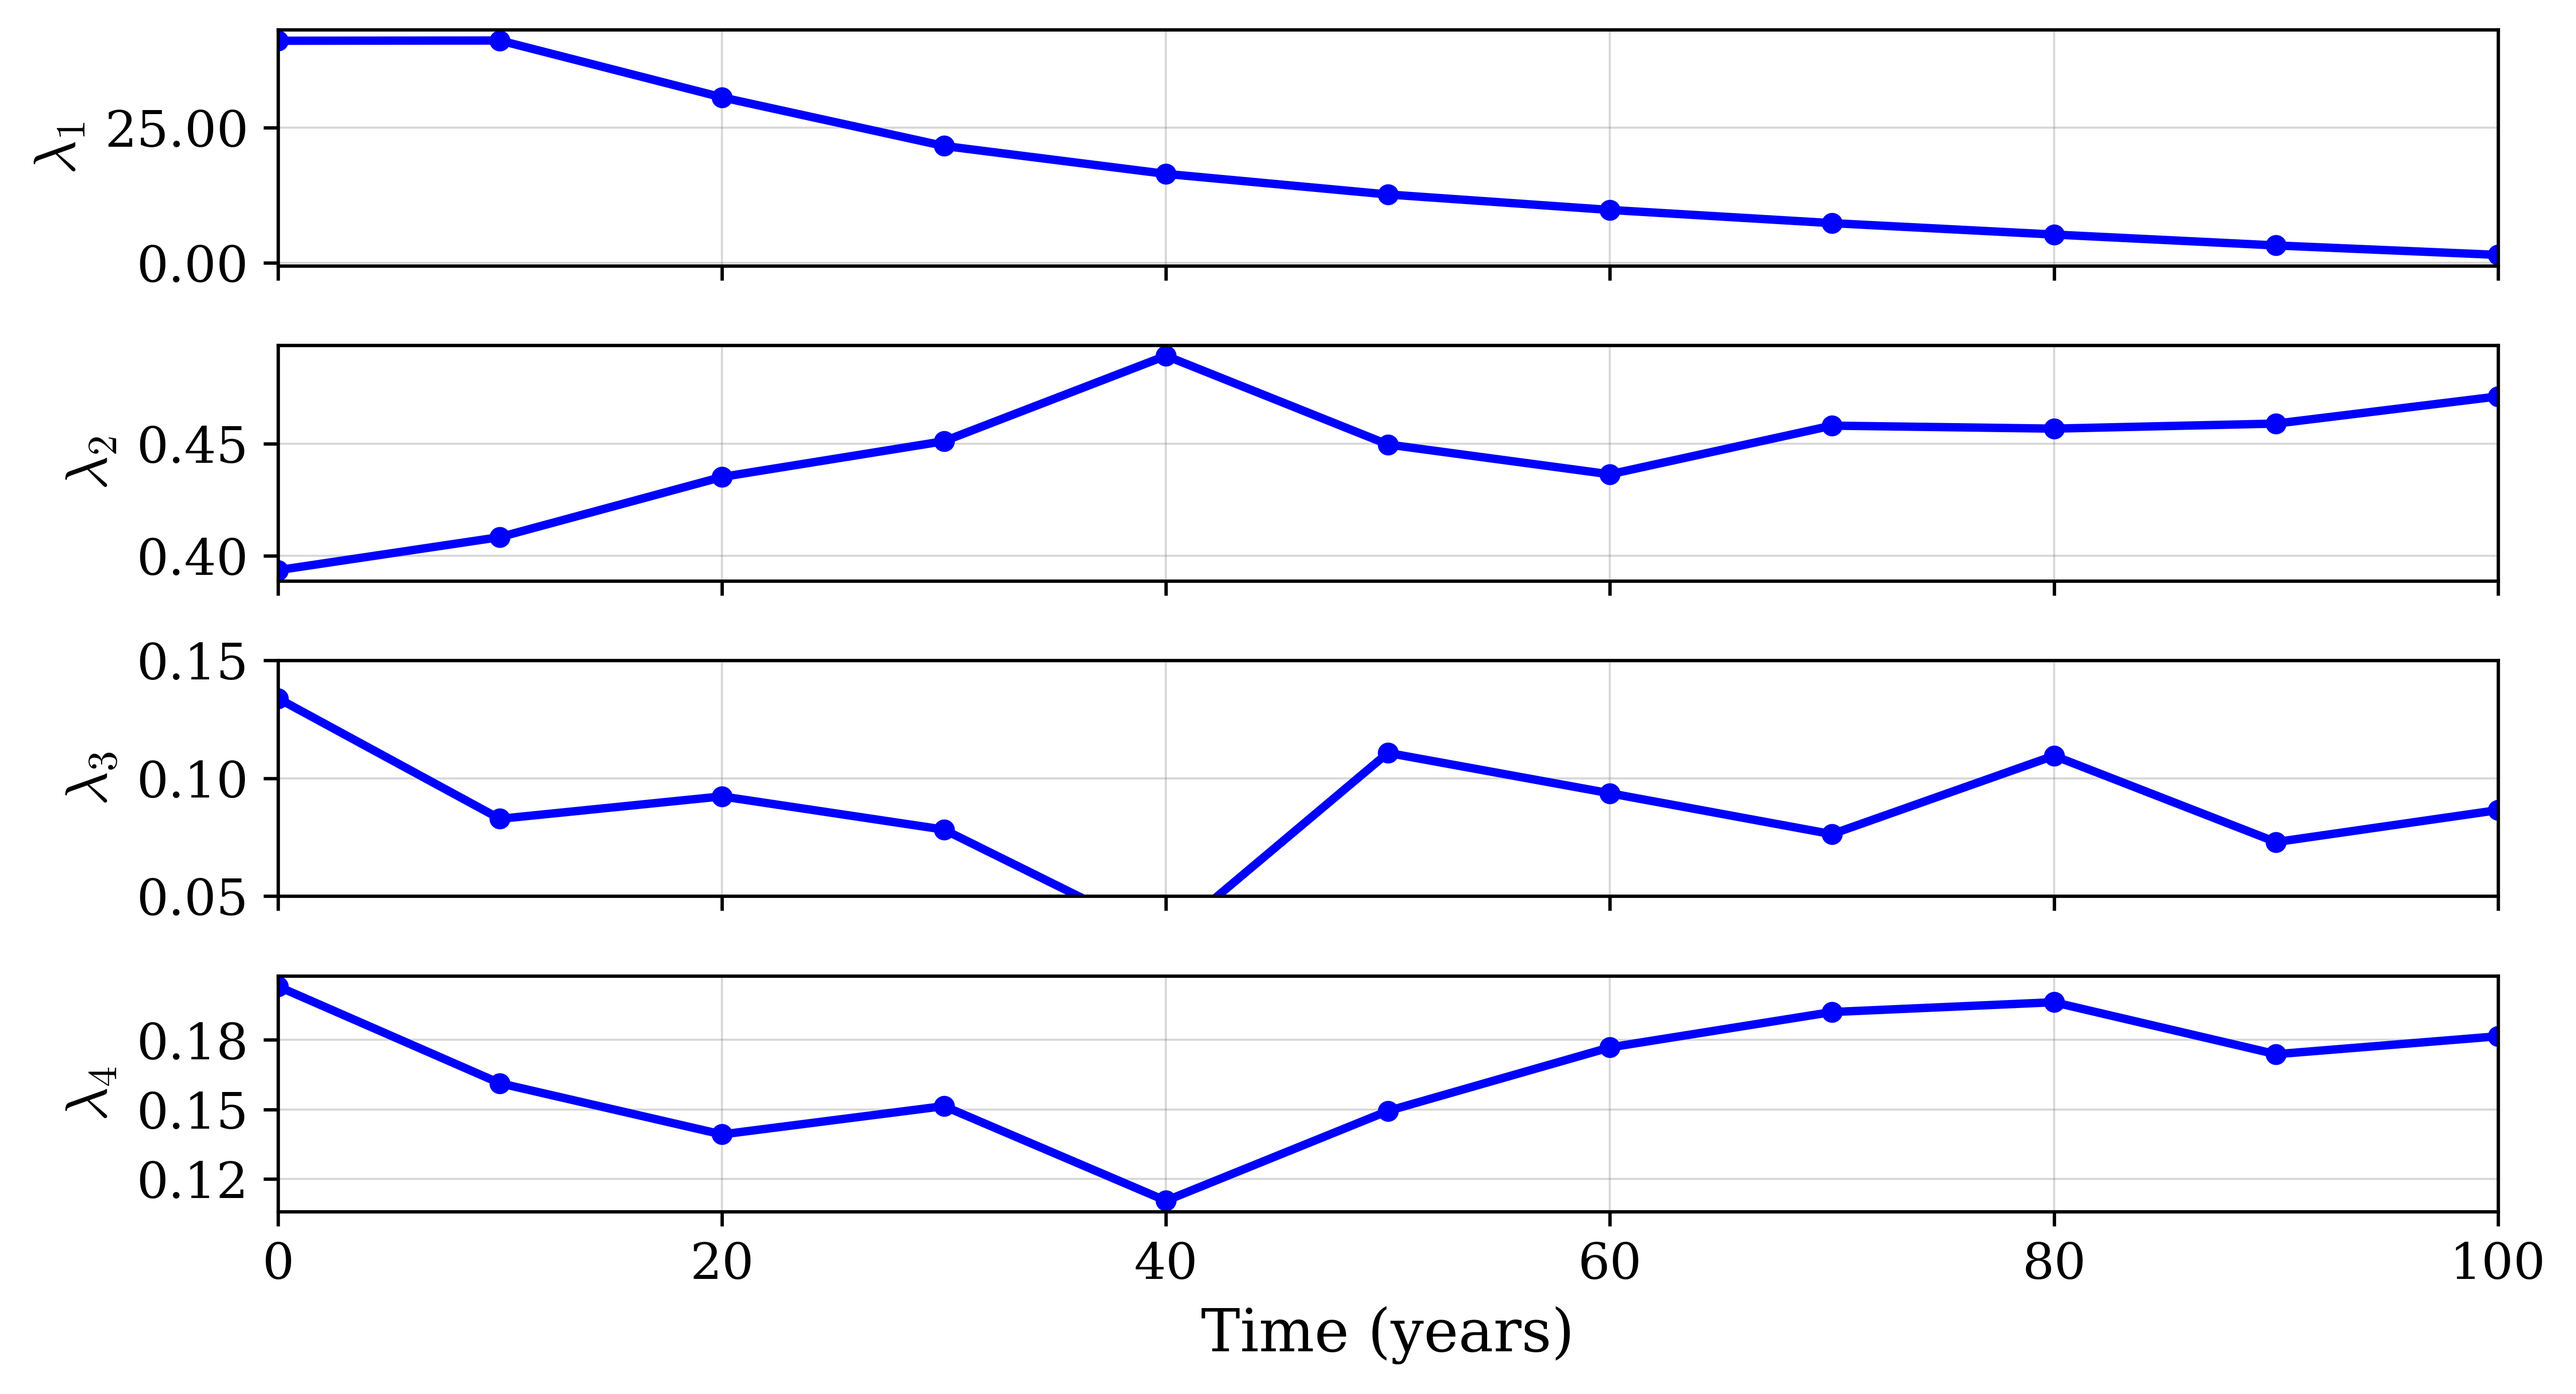
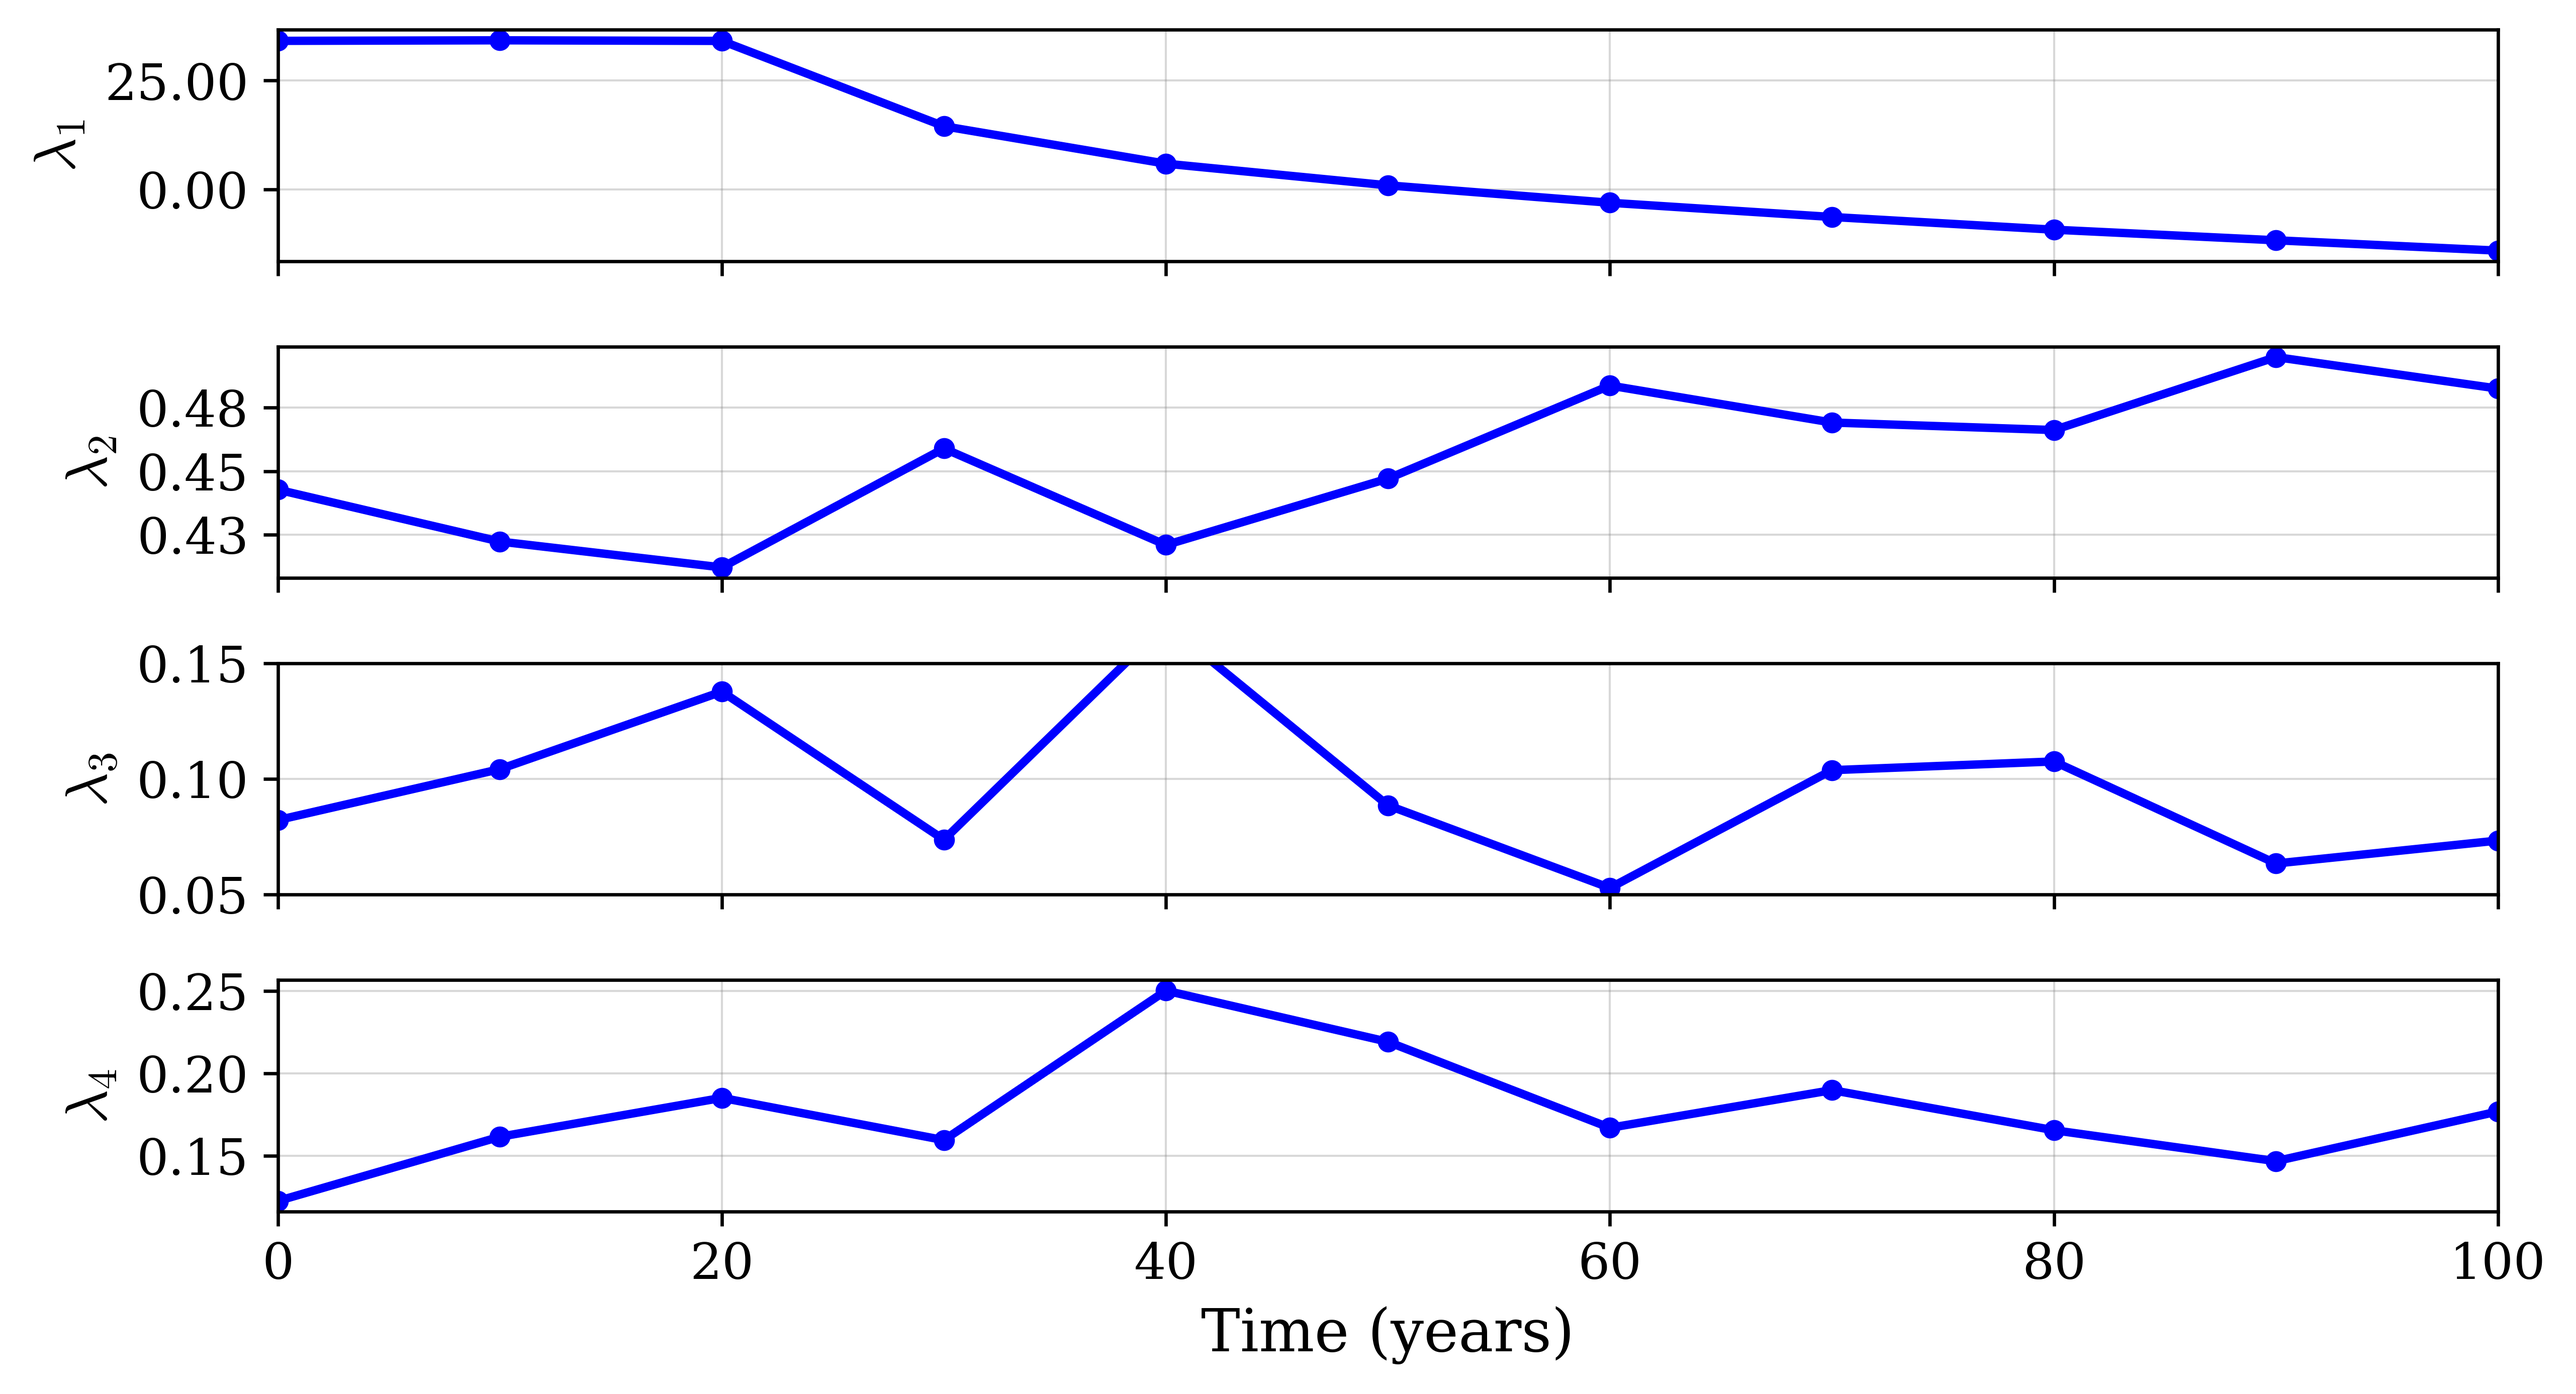
carbonation_depth

diff --git a/beam_problem_1/functions.py b/beam_problem_1/functions.py
@@ -1072,4 +1072,57 @@ def state_limit_function_time_real_beam(
     return np.array(y_aux), dfs
 
 
+def carbonation_depth_at_time(
+    model,
+    t: float,
+    CO2_ppm: float,
+    fc: float,
+    rh: float,
+    cement_type: int,
+    exposure_conditions: int
+) -> float:
 
+    # Caso venha um bundle antigo por engano
+    if isinstance(model, dict):
+        model = model.get('model', model)
+
+    df = pd.DataFrame({
+        't (years)': [t],
+        'CO2 (%)': [CO2_ppm / 10000],
+        'fc (MPa)': [fc],
+        'RH (%)': [rh],
+        'Type of cement': [cement_type],
+        'Exposure conditions': [exposure_conditions]
+    })
+
+    df = df[model.feature_names_in_]
+
+    return float(model.predict(df)[0])
+
+
+def compute_tempo_iniciacao_from_carb(
+    model,
+    cobrimento_mm: float,
+    t_max: int,
+    CO2_ppm: float,
+    fc: float,
+    rh: float,
+    cement_type: int,
+    exposure_conditions: int
+) -> float:
+
+    for t in range(1, t_max + 1):
+        carb_depth = carbonation_depth_at_time(
+            model=model,
+            t=t,
+            CO2_ppm=CO2_ppm,
+            fc=fc,
+            rh=rh,
+            cement_type=cement_type,
+            exposure_conditions=exposure_conditions
+        )
+
+        if carb_depth >= cobrimento_mm:
+            return float(t)
+
+    return np.inf
